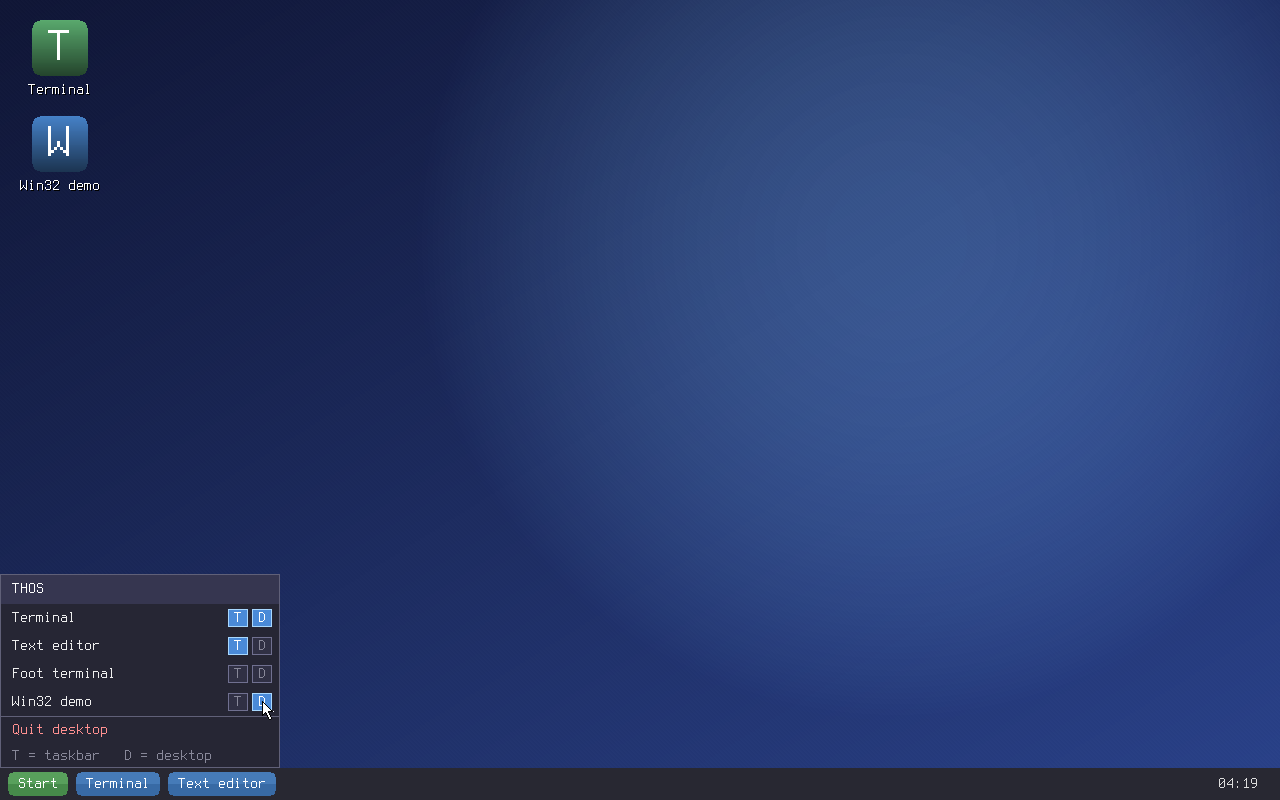
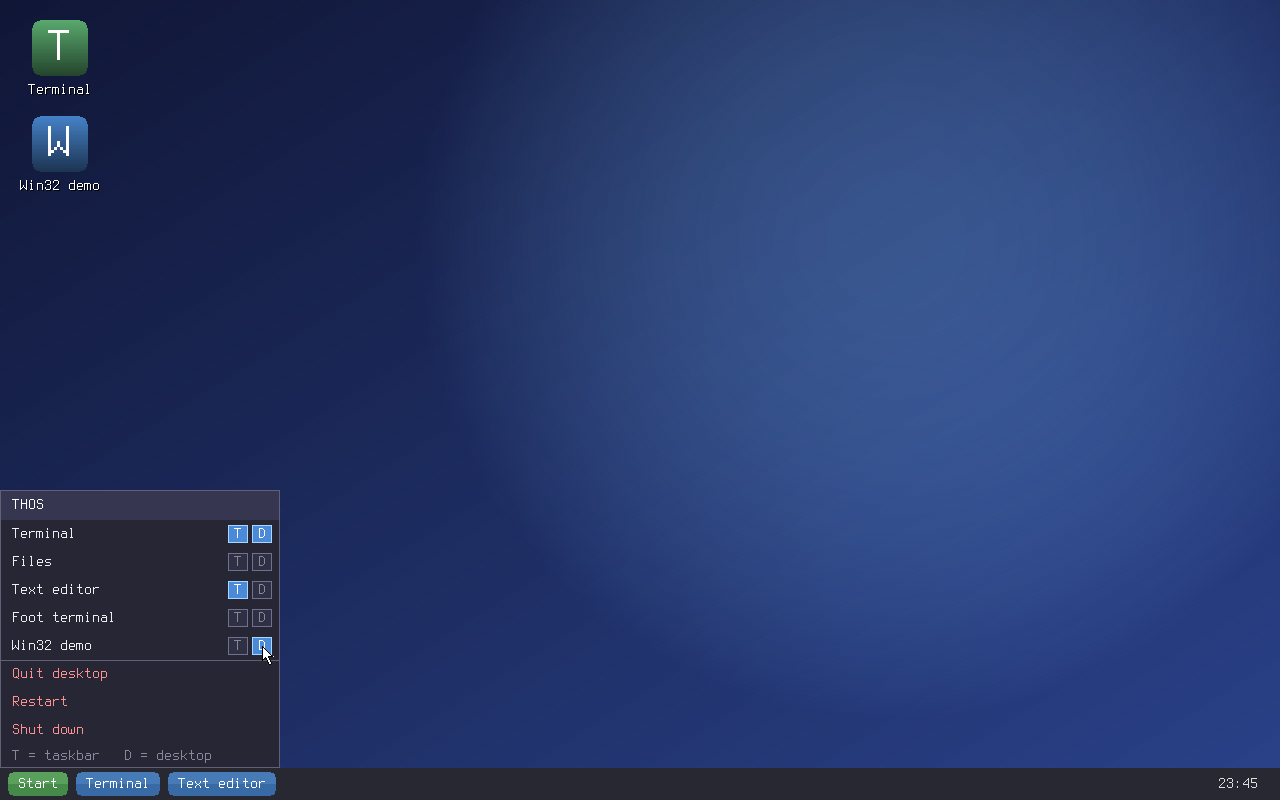
Start menu: Restart and Shut down; test geometry follows the app list

Changed region(s): [[0.0, 0.5938, 0.2188, 0.9062], [0.0, 0.875, 0.0625, 0.9062], [0.0312, 0.8125, 0.0625, 0.8438]]

diff --git a/xtask/src/main.rs b/xtask/src/main.rs
@@ -7185,7 +7185,7 @@ fn desk_menu_test(img: &Path) {
         goto(38, 784);                       // Start
         click(&tsock);
         mon(&tsock, &format!("screendump {}", tshots[0].to_str().unwrap()));
-        goto(262, 617);                      // "D" toggle of the Terminal row: pin to the desktop
+        goto(262, 534);                      // "D" toggle of the Terminal row: pin to the desktop (8 rows: 5 programs + quit/restart/shut down)
         click(&tsock);
         std::thread::sleep(ms(1500));        // the compositor re-reads /desktop.conf
         goto(700, 300);                      // a click on empty desktop closes the menu
@@ -7193,13 +7193,13 @@ fn desk_menu_test(img: &Path) {
         mon(&tsock, &format!("screendump {}", tshots[1].to_str().unwrap()));
         goto(38, 784);                       // Start again, then the Terminal row itself
         click(&tsock);
-        goto(238, 645);                      // "T" toggle of the Text editor row: pin to the taskbar
+        goto(238, 590);                      // "T" toggle of the Text editor row (third): pin to the taskbar
         click(&tsock);
-        goto(262, 701);                      // "D" toggle of the Win32 demo row
+        goto(262, 646);                      // "D" toggle of the Win32 demo row (fifth)
         click(&tsock);
         std::thread::sleep(ms(1500));
         mon(&tsock, &format!("screendump {}", tshots[3].to_str().unwrap()));
-        goto(80, 617);
+        goto(80, 534);
         click(&tsock);
         if wait_for(&tlog, "term ready", 40) {
             std::thread::sleep(ms(1500));
@@ -7211,10 +7211,10 @@ fn desk_menu_test(img: &Path) {
         let (w, h, d) = read_ppm(&shots[n])?;
         (x < w && y < h).then(|| (d[(y * w + x) * 3], d[(y * w + x) * 3 + 1], d[(y * w + x) * 3 + 2]))
     };
-    let menu_open = px(0, 150, 700).is_some_and(|c| c.0 < 60 && c.1 < 60 && c.2 > 40 && c.2 < 70); // menu body 0x262634
+    let menu_open = px(0, 150, 560).is_some_and(|c| c.0 < 60 && c.1 < 60 && c.2 > 40 && c.2 < 70); // menu body 0x262634
     let icon = px(1, 48, 30).is_some_and(|c| (c.0 as i32 - 18).abs() + (c.1 as i32 - 25).abs() + (c.2 as i32 - 58).abs() > 60); // not wallpaper: an icon
     let icon_shot = px(1, 48, 50);
-    let menu_closed = px(1, 150, 700).is_some_and(|c| !(c.0 < 60 && c.1 < 60 && c.2 > 40 && c.2 < 70));
+    let menu_closed = px(1, 150, 560).is_some_and(|c| !(c.0 < 60 && c.1 < 60 && c.2 > 40 && c.2 < 70));
     let term = out.contains("term ready");
     if menu_open && icon && menu_closed && term {
         println!("desk-menu-test PASSED: Start menu opens, pins an icon to the desktop, closes on an outside click and launches a program");

diff --git a/xtask/testdata/thospanel.c b/xtask/testdata/thospanel.c
@@ -165,7 +165,7 @@ static unsigned long long ms_now(void) {
     clock_gettime(CLOCK_MONOTONIC, &t);
     return (unsigned long long)t.tv_sec * 1000 + (unsigned long long)t.tv_nsec / 1000000;
 }
-#define ROWS (napps + 1)            /* the programs, then "Quit desktop" */
+#define ROWS (napps + 3)            /* the programs, then "Quit desktop", "Restart", "Shut down" */
 static void draw_toggle(int x, int y, int on, char letter) {
     for (int j = 0; j < 18; j++)
         for (int i = 0; i < 20; i++) {
@@ -182,10 +182,10 @@ static void draw_menu(void) {
     gfx_str(mpx, M_W, mh, 12, 7, "THOS", 0x00ffffff, 0xFFFFFFFFu);
     for (int r = 0; r < ROWS; r++) {
         int y = M_HEAD + r * M_ROW;
-        if (r == napps) {
-            for (int i = 1; i < M_W - 1; i++) mpx[y * M_W + i] = 0x00606078;
-            gfx_str(mpx, M_W, mh, 12, y + 6, "Quit desktop", 0x00ff9090, 0xFFFFFFFFu);
-            break;
+        if (r >= napps) {
+            if (r == napps) for (int i = 1; i < M_W - 1; i++) mpx[y * M_W + i] = 0x00606078;
+            gfx_str(mpx, M_W, mh, 12, y + 6, r == napps ? "Quit desktop" : r == napps + 1 ? "Restart" : "Shut down", 0x00ff9090, 0xFFFFFFFFu);
+            continue;
         }
         gfx_str(mpx, M_W, mh, 12, y + 6, apps[r].label, 0x00eeeeee, 0xFFFFFFFFu);
         draw_toggle(M_W - 52, y + 5, find(bar, nbar, apps[r].label) >= 0, 'T');
@@ -291,11 +291,17 @@ int main(void) {
             if (m.op != WL_POINTER || m.c != 1) continue;
             int x = (int)m.a, y = (int)m.b, r = (y - M_HEAD) / M_ROW;
             if (y < M_HEAD || r >= ROWS) continue;
-            if (r == napps) {                                 /* Quit desktop */
+            if (r >= napps) {
                 menu_close();
-                int q = sock_connect();
-                struct wl_msg qm = { WL_QUIT, 0, 0, 0, 0 };
-                if (q >= 0) (void)!write(q, &qm, sizeof qm);
+                if (r == napps) {                             /* Quit desktop */
+                    int q = sock_connect();
+                    struct wl_msg qm = { WL_QUIT, 0, 0, 0, 0 };
+                    if (q >= 0) (void)!write(q, &qm, sizeof qm);
+                } else if (fork() == 0) {                     /* Restart / Shut down: the power tools in /bin */
+                    sync();
+                    execl(r == napps + 1 ? "/bin/reboot" : "/bin/poweroff", r == napps + 1 ? "reboot" : "poweroff", (char *)0);
+                    _exit(127);
+                }
                 continue;
             }
             if (x >= M_W - 54) {                              /* a pin toggle */
